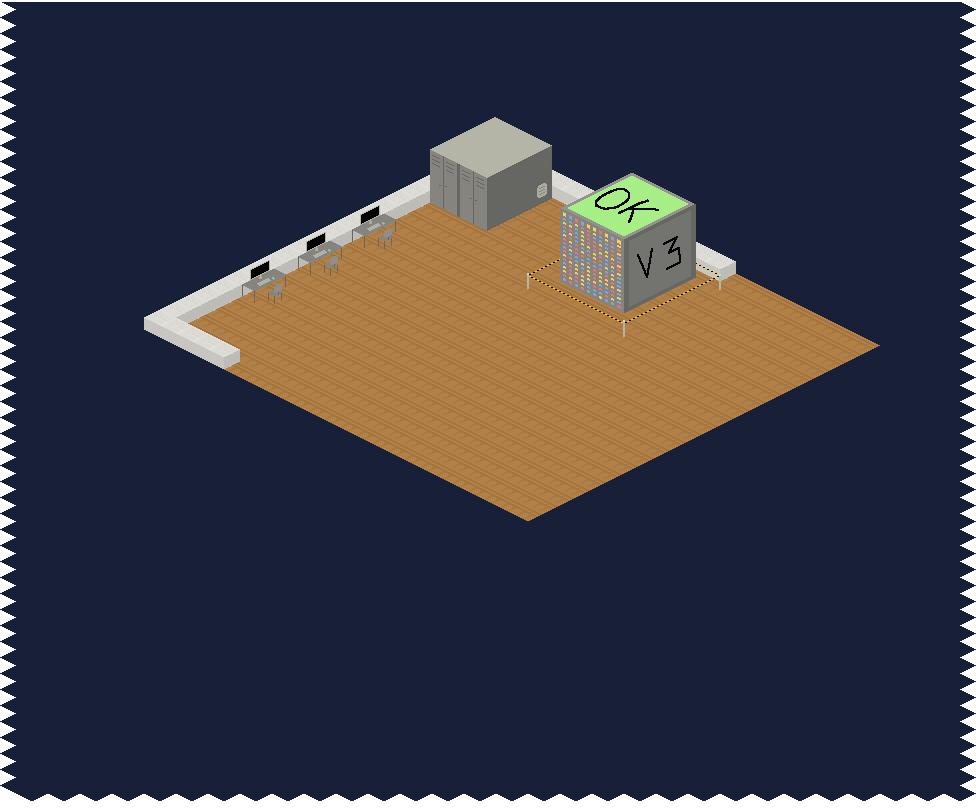
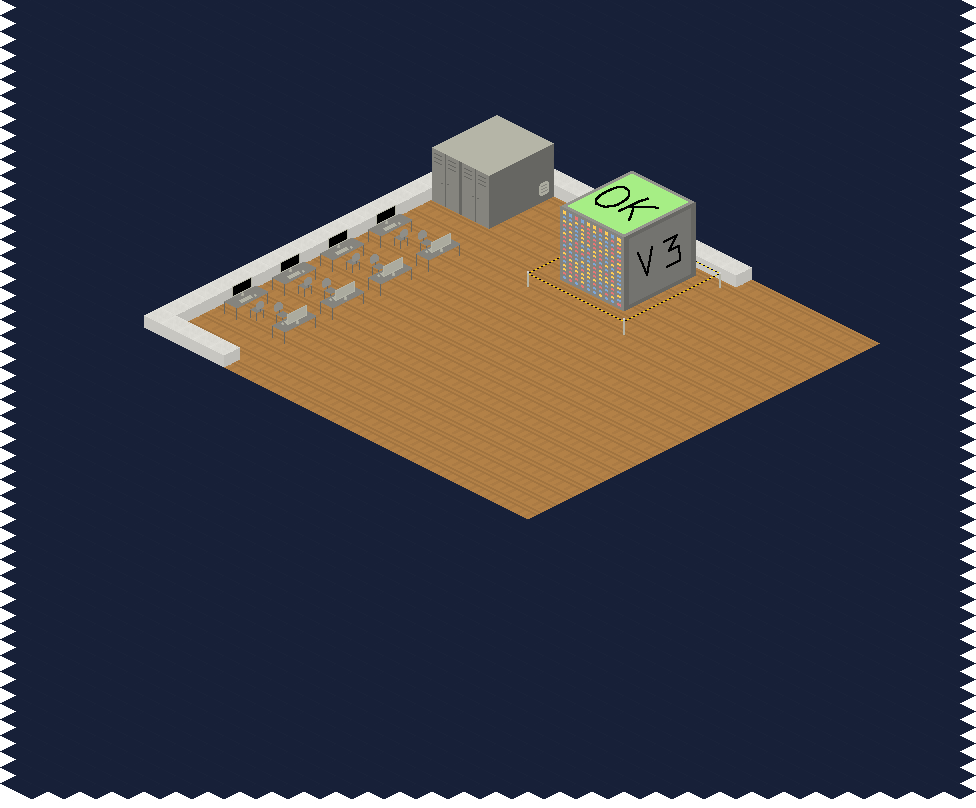
Menu background

diff --git a/levels/tilesets/background.tsx b/levels/tilesets/background.tsx
@@ -1,0 +1,13 @@
+<?xml version="1.0" encoding="UTF-8"?>
+<tileset version="1.10" tiledversion="1.10.2" name="background" tilewidth="122" tileheight="200" tilecount="3" columns="0">
+ <grid orientation="orthogonal" width="1" height="1"/>
+ <tile id="0">
+  <image width="44" height="64" source="../../graphics/sprites/objects/computers/table1.png"/>
+ </tile>
+ <tile id="1">
+  <image width="44" height="64" source="../../graphics/sprites/objects/computers/table2.png"/>
+ </tile>
+ <tile id="2">
+  <image width="122" height="200" source="../../graphics/sprites/objects/rack/server.png"/>
+ </tile>
+</tileset>

diff --git a/code/menu.py b/code/menu.py
@@ -2,6 +2,7 @@ import pygame
 import pygame_widgets
 import webbrowser
 
+from utils import import_surface
 from button import Button
 from pygame_widgets.slider import Slider
 from input_manager import InputManager
@@ -12,6 +13,11 @@ class Menu:
     def __init__(self, name: str, display: pygame.Surface) -> None:
         self.name = name
         self.display = display
+        self.background_serf = import_surface(
+            GameData.project_folder + "/graphics/background_images/menu.png")
+        self.background_serf = pygame.transform.scale(
+            self.background_serf, self.display.get_size())
+        self.background_rect = self.background_serf.get_rect()
 
 
 class MainMenu(Menu):
@@ -43,9 +49,9 @@ class MainMenu(Menu):
             "quit")
 
     def draw_background(self) -> None:
-        self.display.fill("Yellow")
+        self.display.blit(self.background_serf, self.background_rect)
 
-        text = GameData.font_lana100.render("Spawner3", False, "Black")
+        text = GameData.font_lana150.render("Spawner3", False, "Black")
         text_rect = text.get_rect(
             center=(self.display.get_size()[0] / 2,
                     self.display.get_size()[1] / 3))
@@ -114,7 +120,7 @@ class SettingsMenu(Menu):
         self.slider.value = SettingsMenu.volume
 
     def draw_background(self) -> None:
-        self.display.fill("Yellow")
+        self.display.blit(self.background_serf, self.background_rect)
 
         text = GameData.font_lana50.render("Звук", False, "Black")
         text_rect = text.get_rect(
@@ -196,7 +202,7 @@ class DevelopersMenu(Menu):
             "quit")
 
     def draw_background(self) -> None:
-        self.display.fill("Yellow")
+        self.display.blit(self.background_serf, self.background_rect)
 
         text = GameData.font_lana50.render("Разработчики", False, "Black")
         text_rect = text.get_rect(

diff --git a/code/game_data.py b/code/game_data.py
@@ -28,7 +28,7 @@ class GameData:
         "Я люблю своих учеников",
         "Кто не сдаст 16 задач на хаскеле - в бан!",
         "Да мне все равно, я на доске программирую!",
-        "Вопрос не придумали? Двойка Вам за пару",
+        "Вопрос не придумали? Двойка Вам за пару"
     ]
 
     # level updates
@@ -37,8 +37,8 @@ class GameData:
     is_update_background = False
 
     # fonts
-    font_lana100 = pygame.font.Font(
-        project_folder + "/graphics/font/LanaPixel.ttf", 100)
+    font_lana150 = pygame.font.Font(
+        project_folder + "/graphics/font/LanaPixel.ttf", 150)
 
     font_lana50 = pygame.font.Font(
         project_folder + "/graphics/font/LanaPixel.ttf", 50)

diff --git a/code/main.py b/code/main.py
@@ -1,10 +1,12 @@
 import pygame
 
 from sys import exit
+from utils import import_surface
 from save_manager import SaveManager
 from game_state_manager import GameStateManager
 from sound_manager import SoundManager
 from input_manager import InputManager
+from game_data import GameData
 from save_data import save_data
 
 
@@ -15,6 +17,10 @@ class Game:
         self.display = pygame.display.set_mode(
             (save_data.screen_width, save_data.screen_height))
         pygame.display.set_caption("Spawner3")
+
+        pygame.display.set_icon(
+            import_surface(GameData.project_folder +
+                           "/graphics/gui/icons/icon256.png"))
 
         self.clock = pygame.time.Clock()
 
